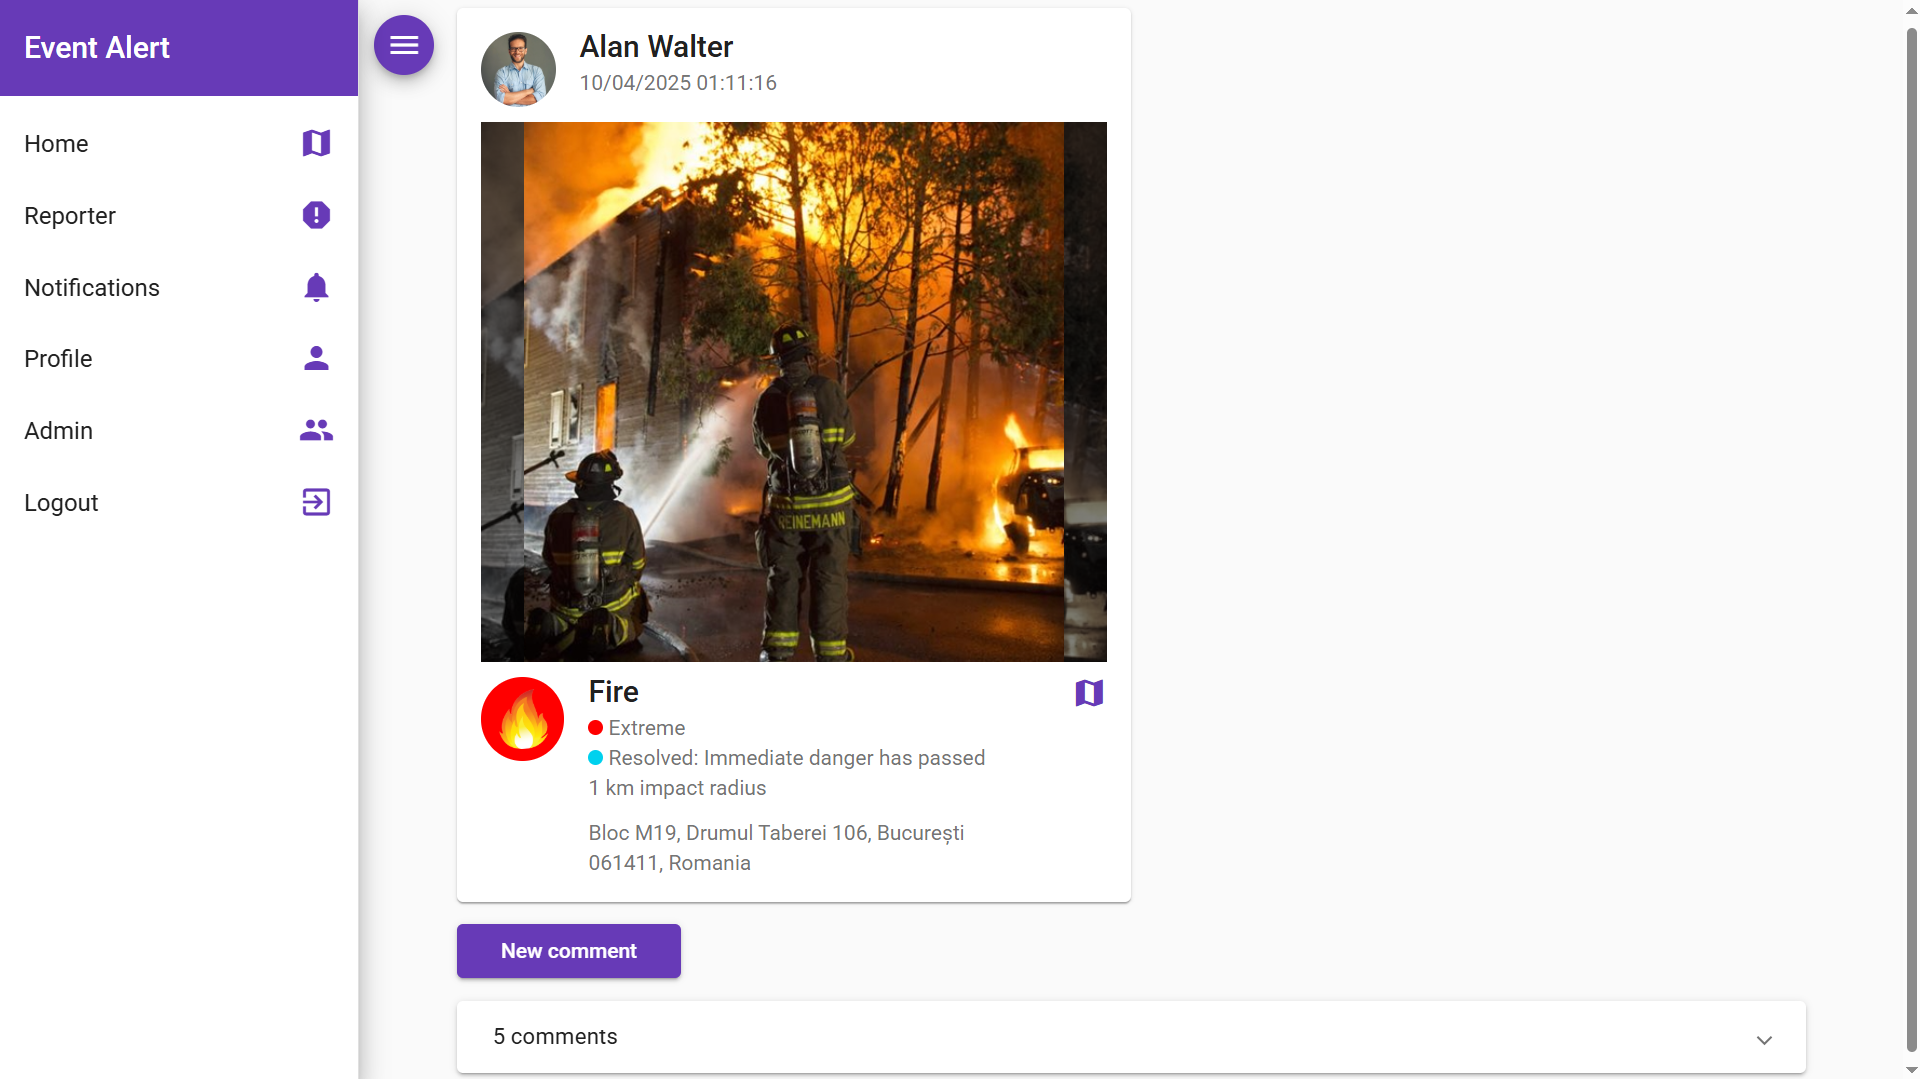
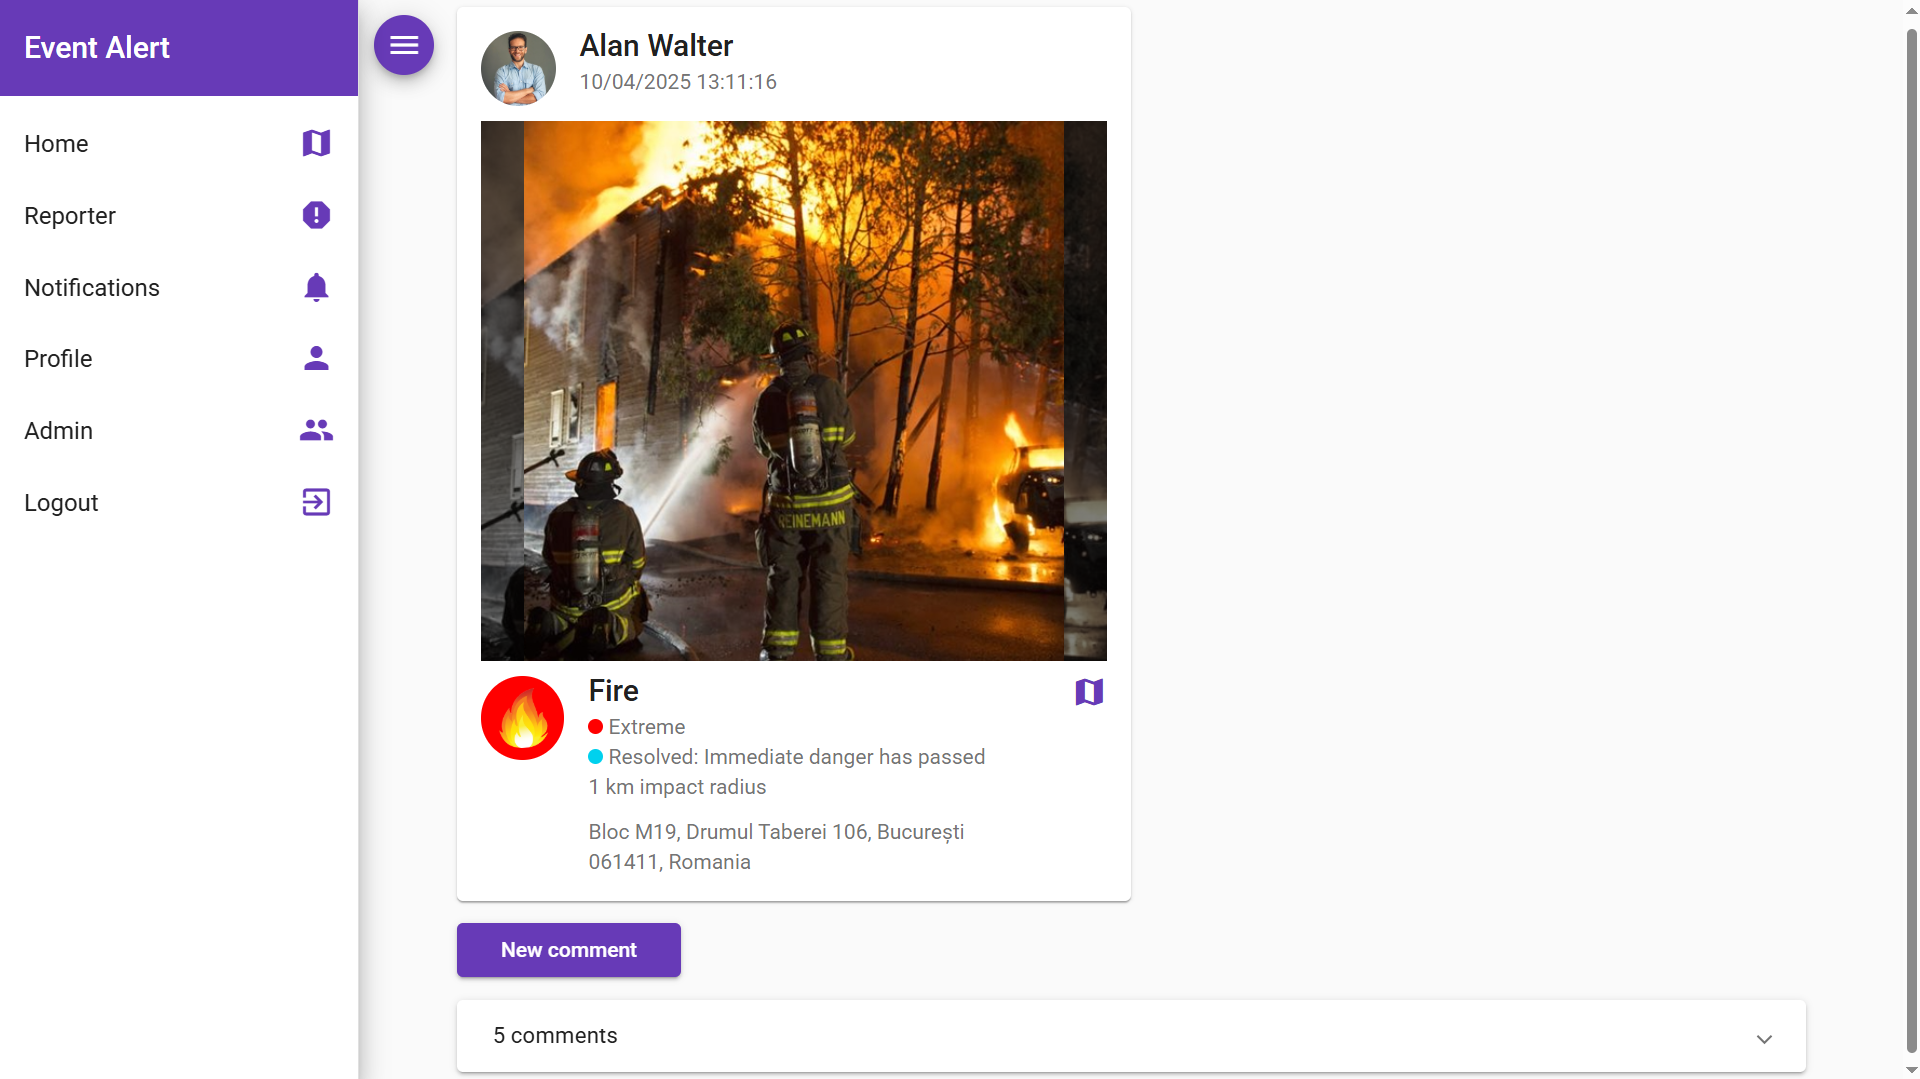
Fix time 24h display

diff --git a/src/app/main/common/event-details/event-details.component.html b/src/app/main/common/event-details/event-details.component.html
@@ -11,7 +11,7 @@
           {{event.user.firstName + ' ' + event.user.lastName}}
         </mat-card-title>
         <mat-card-subtitle>
-          {{event.createdAt | date: 'dd/MM/yyyy hh:mm:ss'}}
+          {{event.createdAt | date: 'dd/MM/yyyy HH:mm:ss'}}
         </mat-card-subtitle>
       </mat-card-header>
 
@@ -76,7 +76,7 @@
           <img matListAvatar [src]="commentsUsersImages.get(comment.user.id)"/>
           <h3 matLine>{{comment.user.firstName + ' ' + comment.user.lastName}}</h3>
           <p matLine>
-            <span style="color: grey">{{comment.createdAt | date: 'dd/MM/yyyy hh:mm:ss'}}</span>
+            <span style="color: grey">{{comment.createdAt | date: 'dd/MM/yyyy HH:mm:ss'}}</span>
             <br>
             <span style="color: dimgrey; white-space: normal; word-break: break-word;">{{comment.comment}}</span>
           </p>

diff --git a/src/app/main/home/map/events-map.component.html b/src/app/main/home/map/events-map.component.html
@@ -81,7 +81,7 @@
           <div class="events-map-event-color-circle" [ngStyle]="{'background-color': selectedEvent.status.color}"></div>
           <p class="events-map-event-info-text">{{selectedEvent.status.label}}</p>
         </div>
-        <p class="events-map-event-info-text">{{selectedEvent.createdAt | date: 'dd/MM/yyyy hh:mm:ss'}}</p>
+        <p class="events-map-event-info-text">{{selectedEvent.createdAt | date: 'dd/MM/yyyy HH:mm:ss'}}</p>
         <p *ngIf="selectedEvent.impactRadius" class="events-map-event-info-text">{{selectedEvent.impactRadius}} km impact radius</p>
         <p class="events-map-event-info-text">
           {{selectedEvent.distance.toString()

diff --git a/src/app/main/home/list/events-list.component.html b/src/app/main/home/list/events-list.component.html
@@ -36,7 +36,7 @@
       <ng-container matColumnDef="createdAt">
         <th mat-header-cell *matHeaderCellDef>Date</th>
         <td mat-cell
-            *matCellDef="let event"> {{event.createdAt | date: 'dd/MM/yyyy hh:mm:ss'}}
+            *matCellDef="let event"> {{event.createdAt | date: 'dd/MM/yyyy HH:mm:ss'}}
         </td>
       </ng-container>
 

diff --git a/src/app/main/reporter/reporter.component.html b/src/app/main/reporter/reporter.component.html
@@ -50,7 +50,7 @@
     <ng-container matColumnDef="createdAt">
       <th mat-header-cell *matHeaderCellDef>Date</th>
       <td mat-cell
-          *matCellDef="let event"> {{event.createdAt | date: 'dd/MM/yyyy hh:mm:ss'}}
+          *matCellDef="let event"> {{event.createdAt | date: 'dd/MM/yyyy HH:mm:ss'}}
       </td>
     </ng-container>
 
